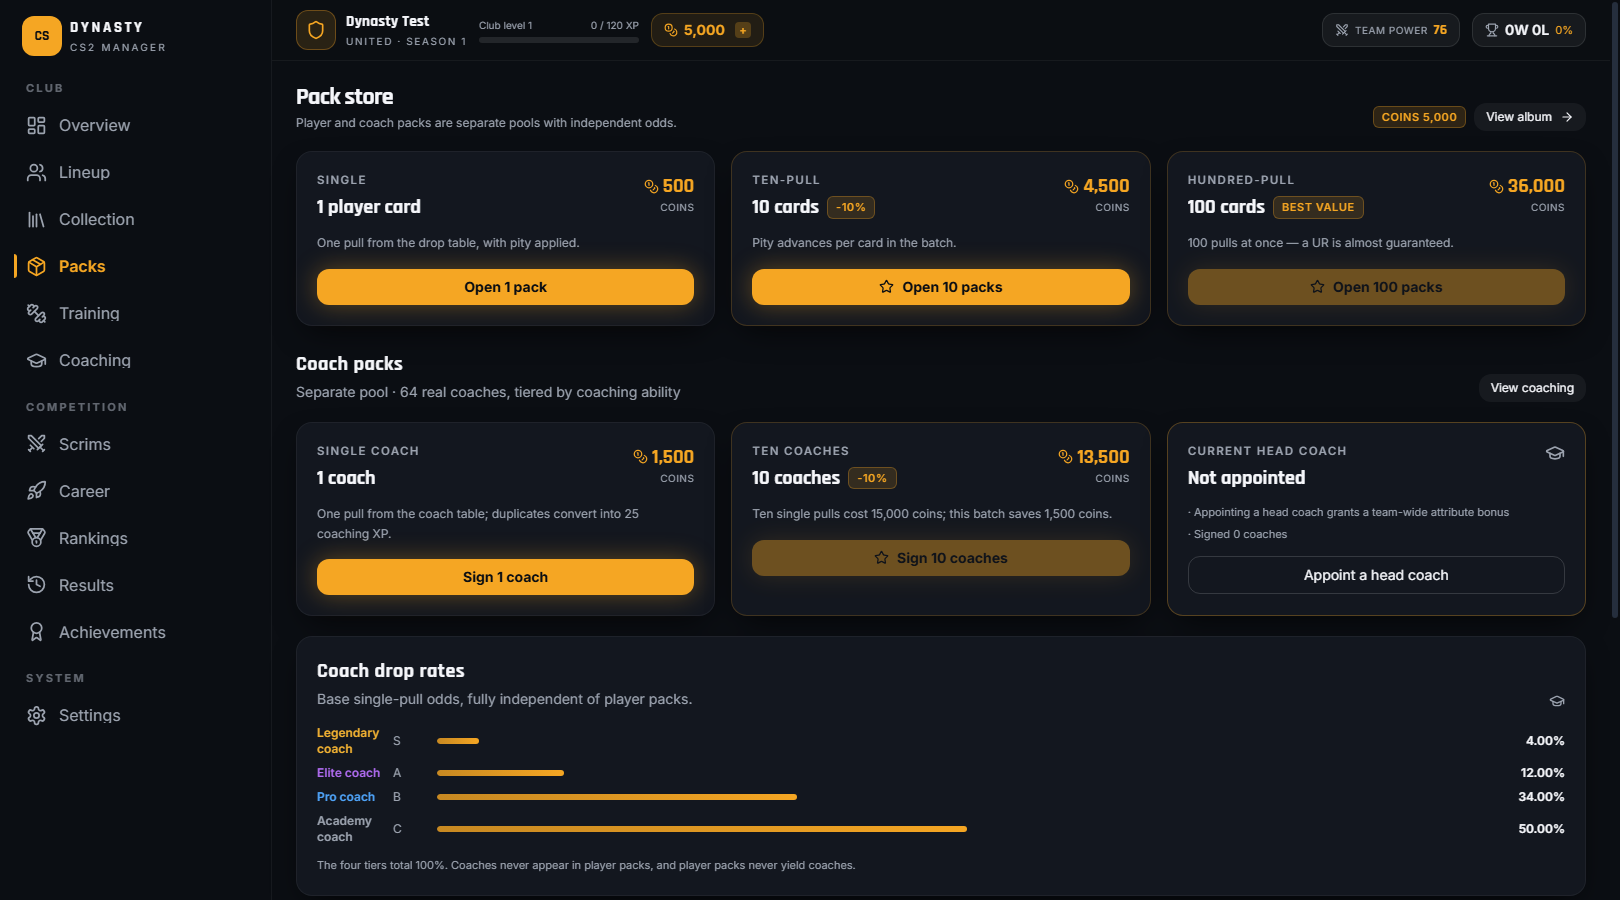
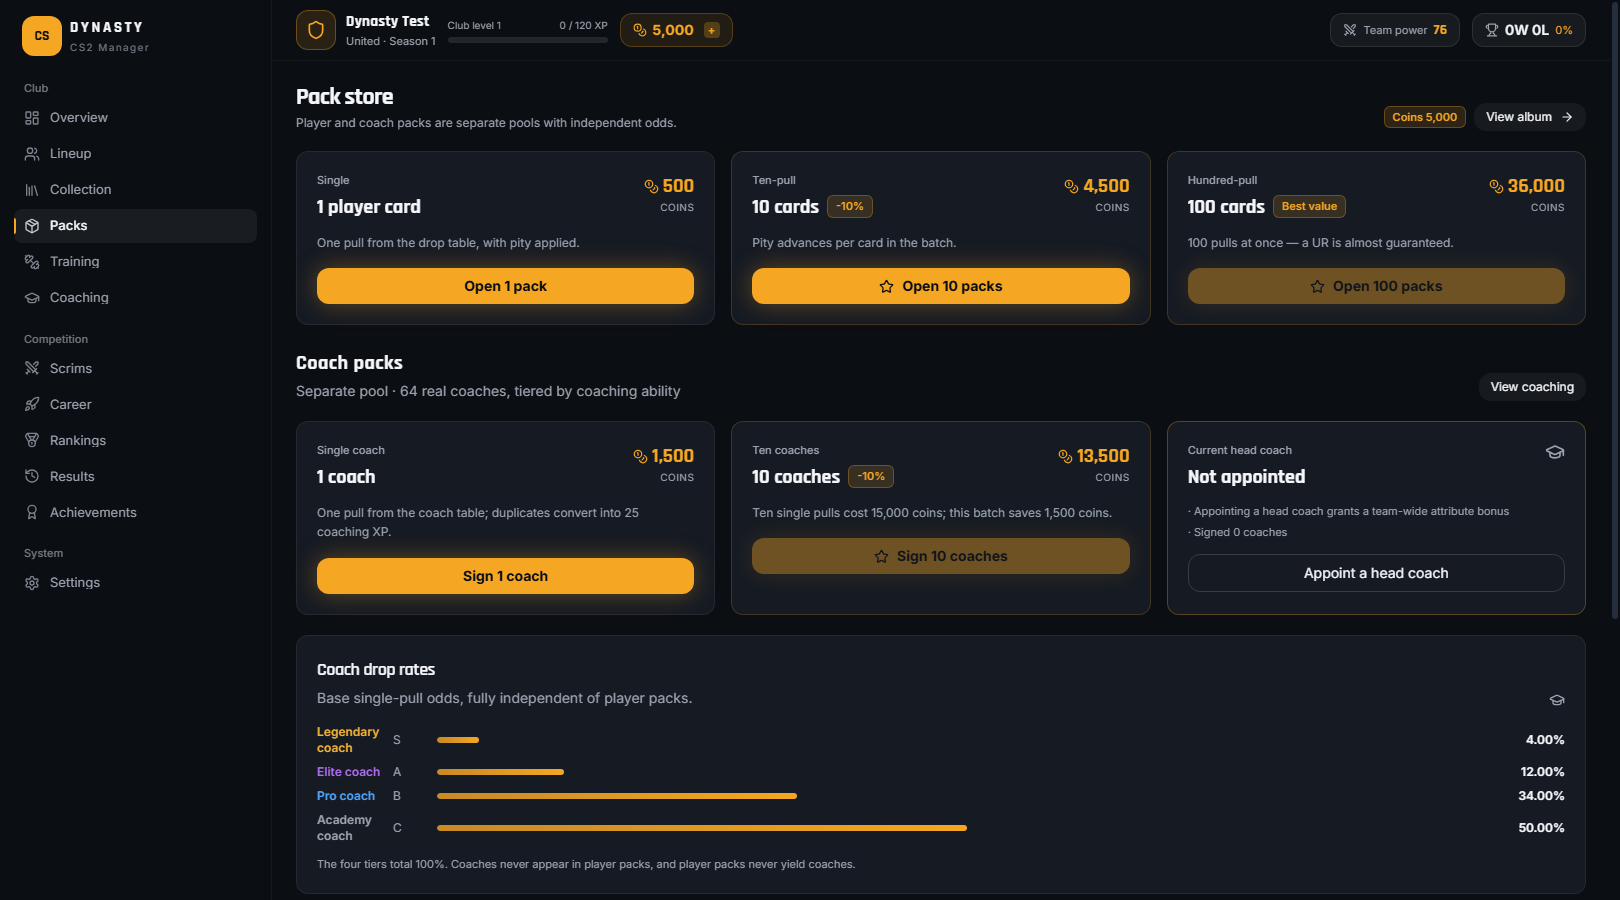
feat(ui): unslop 视觉重做（石墨中性 + 单一琥珀强调）
- 间距/密度：侧边栏导航 34px 行高、16px 图标、8px 间距、组标签 24/8；去掉 hover 位移
- 颜色：清空径向光晕底、卡片彩色渐变面改中性底 + 左侧 2px 稀有度发丝条；surface 去 backdrop-blur 与彩色投影
- 类型：标题 700-900 → 600，tracking-wide → tight；label/badge 取消全大写宽字距，改句首大写
- 数字：OVR/金币/比分统一 tabular-nums
- 强调：只保留琥珀主行动与 ≥85 属性数值，属性条改中性发丝
- 截图：11 页重拍（md5 全不同，远端字节校验一致）
- 清理：删除 1xx 系列旧开发截图

diff --git a/src/app/App.tsx b/src/app/App.tsx
@@ -67,7 +67,7 @@ function TopBar({ onMenu }: { onMenu: () => void }) {
         <div className='flex h-10 w-10 items-center justify-center rounded-xl' style={{ background: (club.color ?? '#F5A623') + '22', border: '1px solid ' + (club.color ?? '#F5A623') + '55' }}>{React.createElement(badgeIcon(club.badge).icon, { size: 20, style: { color: club.color ?? '#F5A623' } })}</div>
         <div className='min-w-0'>
           <div className='truncate font-display text-[15px] font-bold tracking-wide'>{club.name}</div>
-          <div className='text-[10px] uppercase tracking-[0.16em] text-txt-muted'>{tr('齐心协力')} · {tr('第')} {club.season} {tr('赛季')}</div>
+          <div className='text-[11px] text-txt-muted'>{tr('齐心协力')} · {tr('第')} {club.season} {tr('赛季')}</div>
         </div>
       </div>
 
@@ -93,7 +93,7 @@ function TopBar({ onMenu }: { onMenu: () => void }) {
       <div className='ml-auto flex items-center gap-2 overflow-x-auto no-scrollbar lg:gap-3'>
         <div className='hidden items-center gap-1.5 rounded-xl border border-white/10 bg-white/5 px-3 py-1.5 text-sm sm:flex'>
           <Swords size={14} className='text-txt-muted' />
-          <span className='text-[10px] uppercase tracking-wider text-txt-muted'>{t('common.lineupPower')}</span>
+          <span className='text-[11px] text-txt-muted'>{t('common.lineupPower')}</span>
           <span className='font-display font-bold text-accent'>{breakdown.ovr}</span>
         </div>
         <div className='hidden items-center gap-1.5 rounded-xl border border-white/10 bg-white/5 px-3 py-1.5 text-sm md:flex'>
@@ -121,14 +121,14 @@ function Sidebar({ open, onClose }: { open: boolean; onClose: () => void }) {
           <div className='flex h-10 w-10 items-center justify-center rounded-xl bg-accent font-display text-sm font-black text-ink-900'>CS</div>
           <div>
             <div className='font-display text-[15px] font-black tracking-[0.18em] text-txt'>DYNASTY</div>
-            <div className='text-[10px] uppercase tracking-[0.22em] text-txt-muted'>CS2 Manager</div>
+            <div className='text-[10px] tracking-[0.14em] text-txt-muted/70'>CS2 Manager</div>
           </div>
           <button className='ml-auto text-txt-muted lg:hidden' onClick={onClose}><X size={16} /></button>
         </div>
         <nav className='flex flex-1 flex-col gap-4 overflow-y-auto pb-2'>
           {['nav.group.club', 'nav.group.match', 'nav.group.system'].map((group) => (
             <div key={group}>
-              <div className='mb-1.5 px-3 text-[11px] font-bold uppercase tracking-[0.2em] text-txt-muted/60'>{t(group)}</div>
+              <div className='mb-1 mt-6 px-2.5 text-[11px] font-medium text-txt-muted/70 first:mt-0'>{t(group)}</div>
               <div className='flex flex-col gap-0.5'>
                 {NAV_ITEMS.filter((item) => item.group === group).map((item) => (
                   <NavLink
@@ -137,17 +137,17 @@ function Sidebar({ open, onClose }: { open: boolean; onClose: () => void }) {
                     onClick={onClose}
                     className={({ isActive }) =>
                       clsx(
-                        'focus-ring group relative flex items-center gap-3 rounded-lg px-3 py-3 text-base leading-none transition-all duration-150 hover:translate-x-0.5',
+                        'focus-ring group relative flex h-[34px] items-center gap-2.5 rounded-lg px-2.5 text-[13px] leading-none transition-colors duration-150',
                         isActive
-                          ? 'bg-accent/12 font-semibold text-accent'
+                          ? 'bg-white/[0.06] font-medium text-txt'
                           : 'text-txt-muted hover:bg-white/[0.06] hover:text-txt',
                       )
                     }
                   >
                     {({ isActive }) => (
                       <>
-                        {isActive ? <span className='absolute left-0 h-6 w-[3px] rounded-r bg-accent' /> : null}
-                        <item.icon size={21} className='shrink-0' />
+                        {isActive ? <span className='absolute left-0 h-4 w-[2px] rounded-r bg-accent' /> : null}
+                        <item.icon size={16} className='shrink-0 opacity-80' />
                         <span className='truncate'>{t(item.labelKey)}</span>
                       </>
                     )}
@@ -245,7 +245,7 @@ export function App() {
   if (!ready) {
     return (
       <div className='flex min-h-screen items-center justify-center bg-ink-900'>
-        <div className='animate-pulse-soft font-display text-sm uppercase tracking-[0.3em] text-txt-muted'>{tr('正在载入王朝…')}</div>
+        <div className='animate-pulse-soft font-display text-sm tracking-[0.14em] text-txt-muted'>{tr('正在载入王朝…')}</div>
       </div>
     );
   }

diff --git a/src/pages/DashboardPage.tsx b/src/pages/DashboardPage.tsx
@@ -132,7 +132,7 @@ export function DashboardPage() {
                     type='button'
                     onClick={() => navigate('/squad')}
                     className='overflow-hidden rounded-2xl border p-3 text-left transition hover:brightness-110'
-                    style={{ borderColor: rarity.color + '55', background: 'linear-gradient(165deg,' + rarity.color + '22, rgba(17,21,28,0.95))' }}
+                    style={{ borderLeftColor: rarity.color, borderLeftWidth: 2 }}
                   >
                     <div className='flex items-start justify-between'>
                       <div>
@@ -146,16 +146,16 @@ export function DashboardPage() {
                     <div className='mt-2 flex justify-center'>
                       <Avatar nickname={identity?.nickname ?? tpl.playerId} playerId={tpl.playerId} size={64} />
                     </div>
-                    <div className='mt-2 truncate font-display text-sm font-bold text-txt'>{identity?.nickname ?? tpl.playerId}</div>
-                    <div className='text-[10px] uppercase tracking-wider text-txt-muted'>{tr(ROLE_SHORT[role])} · {levelText(card.level)}</div>
+                    <div className='mt-2 truncate font-display text-sm font-medium text-txt'>{identity?.nickname ?? tpl.playerId}</div>
+                    <div className='text-[10px] text-txt-muted'>{tr(ROLE_SHORT[role])} · {levelText(card.level)}</div>
                     <div className='mt-2 space-y-1'>
                       {bars.map((bar) => (
                         <div key={bar.key} className='flex items-center gap-1.5'>
                           <span className='w-[52px] shrink-0 truncate text-[9px] text-txt-muted'>{tr(bar.label)}</span>
                           <span className='h-1 flex-1 overflow-hidden rounded-full bg-white/10'>
-                            <span className='block h-full rounded-full' style={{ width: Math.min(100, attrs[bar.key] / 1.2) + '%', background: rarity.color }} />
+                            <span className='block h-full rounded-full bg-white/25' style={{ width: Math.min(100, attrs[bar.key] / 1.2) + '%' }} />
                           </span>
-                          <span className='w-5 shrink-0 text-right text-[9px] font-semibold text-txt'>{attrs[bar.key]}</span>
+                          <span className={'w-5 shrink-0 text-right text-[9px] ' + (attrs[bar.key] >= 85 ? 'font-semibold text-accent' : 'text-txt-muted')}>{attrs[bar.key]}</span>
                         </div>
                       ))}
                     </div>

diff --git a/src/components/ui.tsx b/src/components/ui.tsx
@@ -17,7 +17,7 @@ export function SectionTitle({
   return (
     <div className='mb-4 flex flex-wrap items-end justify-between gap-x-4 gap-y-2'>
       <div>
-        <h2 className='font-display text-xl font-bold tracking-wide text-txt'>{title}</h2>
+        <h2 className='font-display text-lg font-semibold tracking-tight text-txt'>{title}</h2>
         {subtitle ? <p className='mt-1 text-sm text-txt-muted'>{subtitle}</p> : null}
       </div>
       {right}
@@ -76,7 +76,7 @@ export function Badge({
     muted: 'bg-white/5 text-txt-muted border-white/5',
   };
   return (
-    <span className={clsx('inline-flex items-center gap-1 rounded-md border px-2 py-0.5 text-[11px] font-semibold uppercase tracking-wider', tones[tone], className)}>
+    <span className={clsx('inline-flex items-center gap-1 rounded-md border px-2 py-0.5 text-[11px] font-semibold tracking-normal', tones[tone], className)}>
       {children}
     </span>
   );
@@ -149,7 +149,7 @@ export function Modal({
         onClick={(e) => e.stopPropagation()}
       >
         <div className='mb-4 flex items-center justify-between'>
-          <h3 className='font-display text-lg font-bold'>{title}</h3>
+          <h3 className='font-display text-base font-semibold tracking-tight'>{title}</h3>
           <button onClick={onClose} className='focus-ring rounded-lg p-1 text-txt-muted hover:text-txt' aria-label='Close'>
             <X size={18} />
           </button>
@@ -164,7 +164,7 @@ export function Modal({
 export function EmptyState({ title, hint, action }: { title: string; hint?: string; action?: React.ReactNode }) {
   return (
     <div className='flex flex-col items-center justify-center gap-2 rounded-2xl border border-dashed border-white/10 p-10 text-center'>
-      <div className='font-display text-base font-semibold text-txt'>{title}</div>
+      <div className='font-display text-[15px] font-semibold tracking-tight text-txt'>{title}</div>
       {hint ? <div className='max-w-md text-sm text-txt-muted'>{hint}</div> : null}
       {action}
     </div>

diff --git a/src/index.css b/src/index.css
@@ -16,23 +16,22 @@ body {
 
 @layer components {
   .surface {
-    @apply rounded-2xl border border-white/5 bg-ink-800/80 backdrop-blur-sm shadow-card;
+    @apply rounded-xl border border-white/[0.07] bg-ink-800;
   }
   .surface-raised {
-    @apply rounded-2xl border border-white/10 bg-ink-700/70 backdrop-blur-md shadow-card;
+    @apply rounded-xl border border-white/[0.09] bg-ink-700;
   }
   .label-xs {
-    @apply text-[11.5px] font-semibold uppercase tracking-[0.12em] text-txt-muted;
+    @apply text-[11px] font-medium tracking-normal text-txt-muted;
   }
   .stat-number {
-    @apply font-display text-3xl font-bold leading-none tracking-tight;
+    @apply font-display text-3xl font-medium leading-none tracking-tight tabular-nums;
   }
   .focus-ring {
     @apply outline-none focus-visible:ring-2 focus-visible:ring-accent/70 focus-visible:ring-offset-2 focus-visible:ring-offset-ink-900;
   }
   .grid-noise {
-    background-image: radial-gradient(circle at 20% 10%, rgba(245,166,35,0.10), transparent 45%),
-      radial-gradient(circle at 85% 0%, rgba(229,72,77,0.10), transparent 40%);
+    background-image: none;
   }
 }
 
@@ -87,4 +86,8 @@ body {
 
 .tier-scroll::-webkit-scrollbar-track {
   background: transparent;
+}
+
+@layer utilities {
+  .tnum { font-variant-numeric: tabular-nums; }
 }
